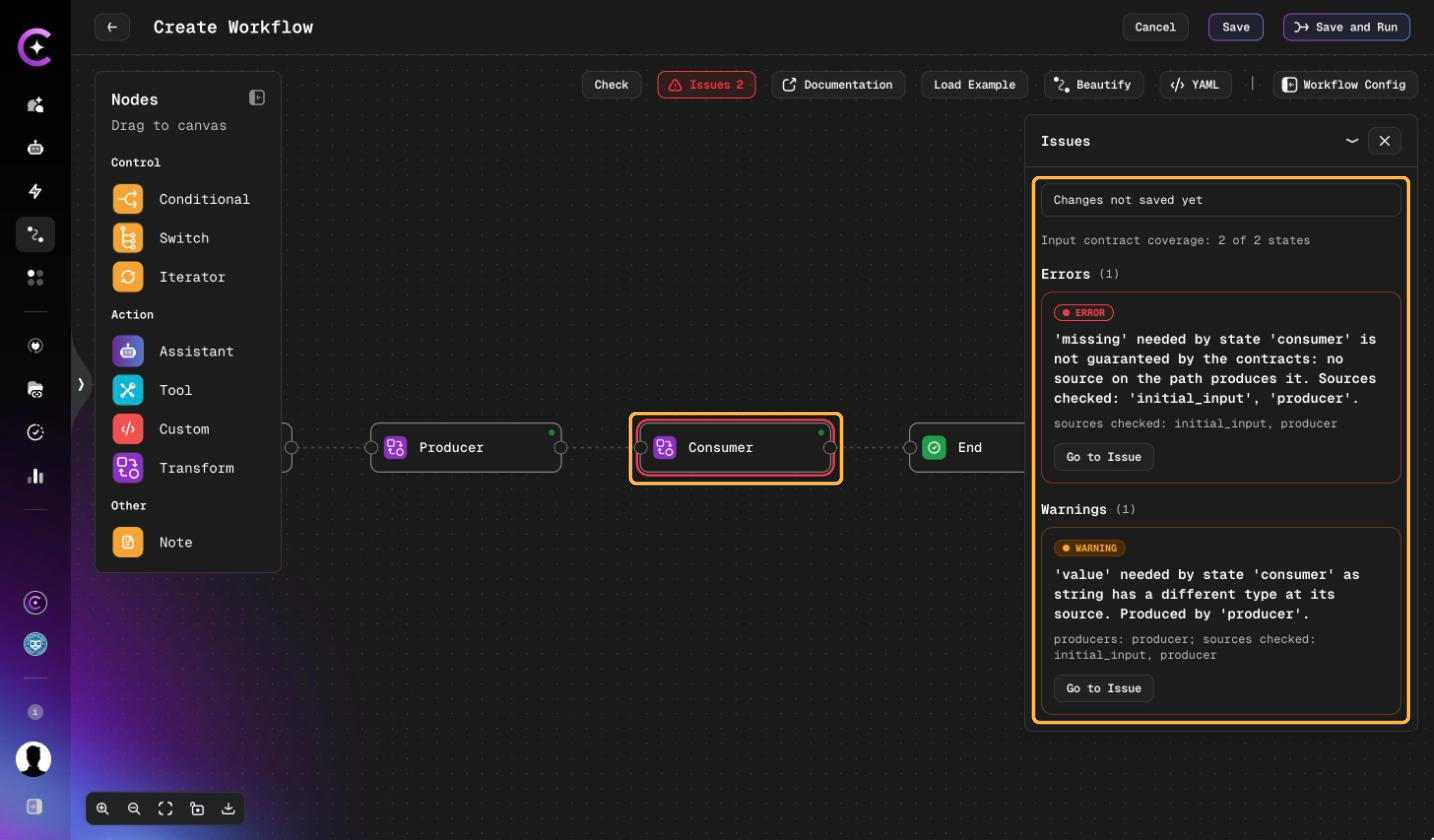
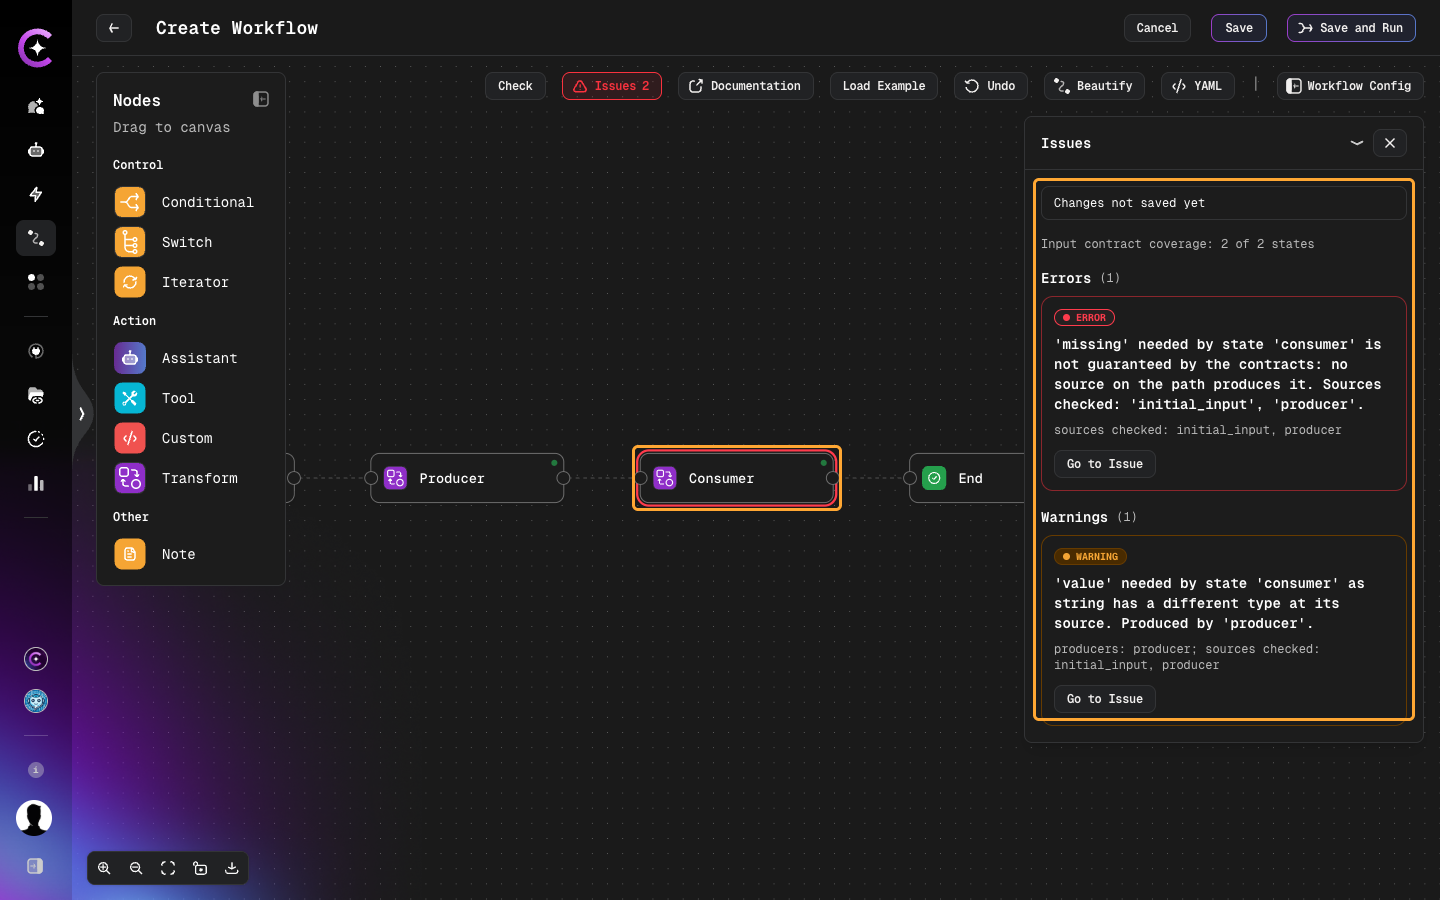
docs(user-guide): recapture workflow contract screenshots at 16:10
Retake the ten contract validation screenshots at 1440x900 and 100%
scale so they meet the capture guidelines, and name the Workflow
created with warnings status shown after the first save.

Generated with AI

diff --git a/docs/user-guide/workflows/create-workflow.md b/docs/user-guide/workflows/create-workflow.md
@@ -434,9 +434,10 @@ execution. The editor then offers three actions:
 
 The example below keeps only the type mismatch from the previous section. Save succeeds in
 `warn` mode. The outlined status and actions confirm that the workflow is saved and that execution
-is a separate choice.
+is a separate choice. The **Issues** panel reads **Workflow created with warnings** after the first
+save of a new workflow and **Saved with warnings** after a later save.
 
-![Saved with warnings, with Done, Saved, and Run anyway outlined](./images/saved-with-warnings.png)
+![Workflow created with warnings, with Done, Saved, and Run anyway outlined](./images/saved-with-warnings.png)
 
 Warnings and informational `UNVERIFIED` results are different. A warning means the analysis
 found a likely problem, such as an optional field that a state needs. `UNVERIFIED` means the
